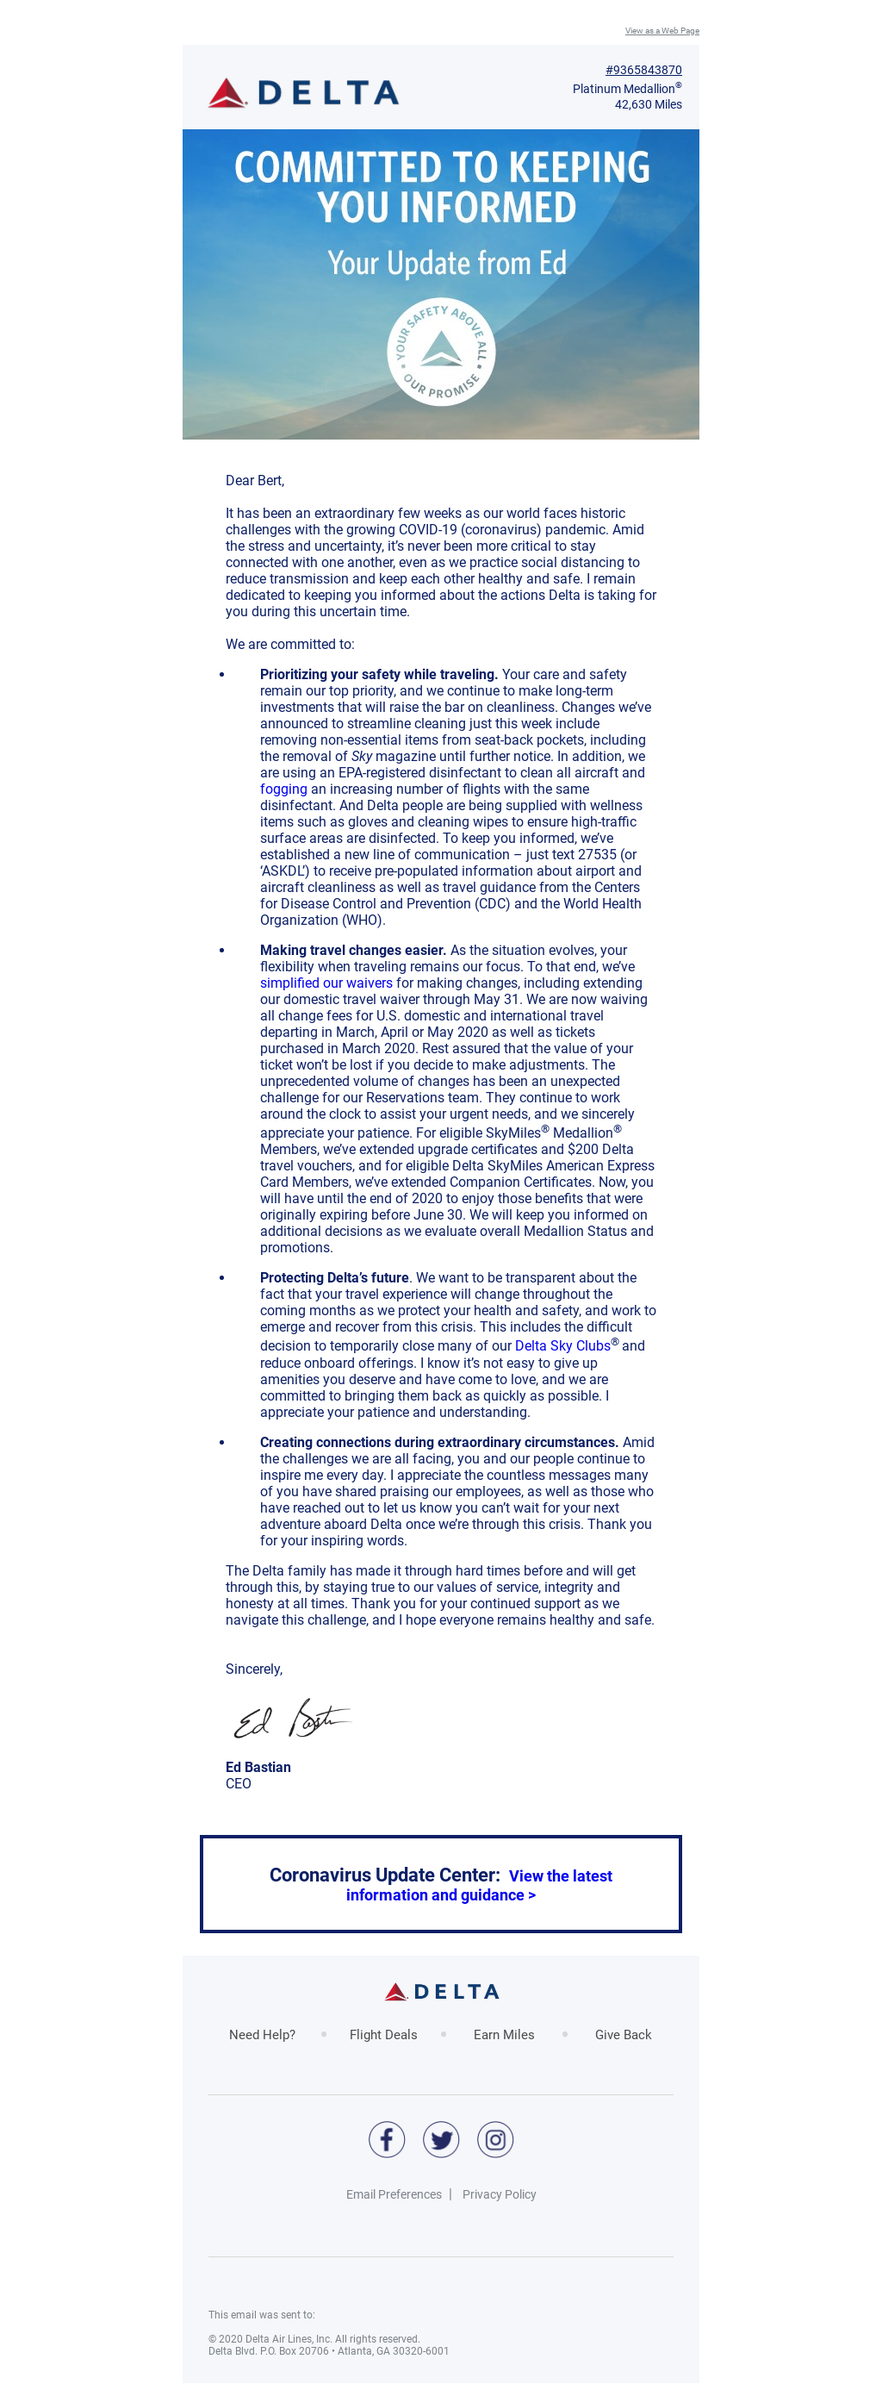
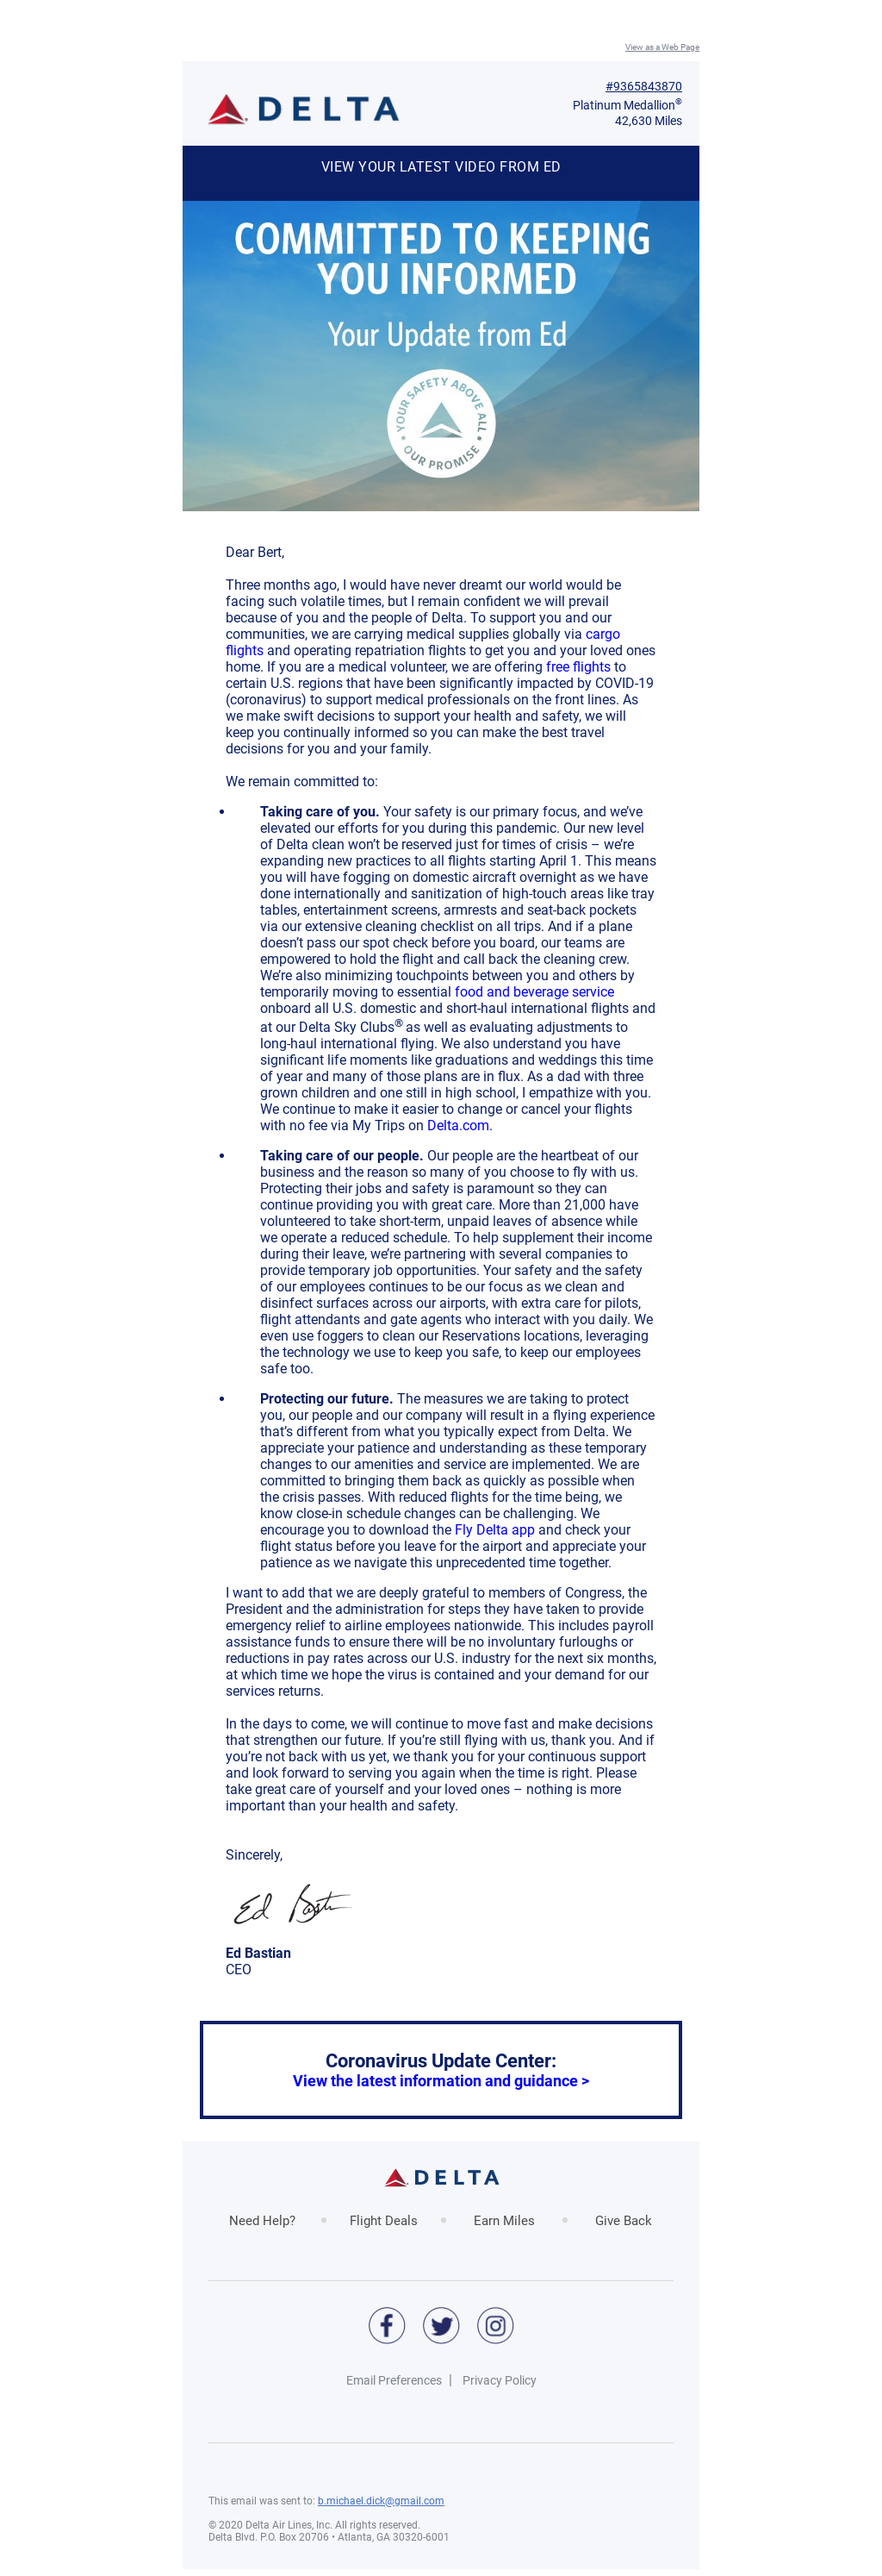
Adding three files for new post on 2020-03-29-OurCommitmentRemainsYourUpdatefromEdBastian

Changed region(s): [[0.1875, 0.0, 0.8125, 0.9304], [0.25, 0.9614, 0.5, 0.9924]]

diff --git a/_posts/2020-03-29-OurCommitmentRemainsYourUpdatefromEdBastian.md b/_posts/2020-03-29-OurCommitmentRemainsYourUpdatefromEdBastian.md
@@ -1,0 +1,147 @@
+---
+title:  "Our Commitment Remains: Your Update from Ed Bastian"
+metadate: "hide"
+date: 2020-03-29 19:54:40
+categories: [  ]
+image: "/assets/images/posts/OurCommitmentRemainsYourUpdatefromEdBastian_full.png"
+thumbnail: "/assets/images/posts/OurCommitmentRemainsYourUpdatefromEdBastian.png"
+---
+  View as a Web Page
+
+
+
+
+
+#9365843870
+
+ | Platinum Medallion®
+
+ |  42,630 Miles
+
+
+VIEW YOUR LATEST VIDEO FROM ED
+
+
+
+
+
+Dear Bert,
+
+Three months ago, I would have never dreamt our world would be facing such
+volatile times, but I remain confident we will prevail because of you and
+the people of Delta. To support you and our communities, we are carrying
+medical supplies globally via cargo flights
+
+and operating repatriation flights to get you and your loved ones home. If
+you are a medical volunteer, we are offering free flights
+
+to certain U.S. regions that have been significantly impacted by COVID-19
+(coronavirus) to support medical professionals on the front lines. As we
+make swift decisions to support your health and safety, we will keep you
+continually informed so you can make the best travel decisions for you and
+your family.
+
+We remain committed to:
+
+   - *Taking care of you. *Your safety is our primary focus, and we’ve
+   elevated our efforts for you during this pandemic. Our new level of Delta
+   clean won’t be reserved just for times of crisis – we’re expanding new
+   practices to all flights starting April 1. This means you will have fogging
+   on domestic aircraft overnight as we have done internationally and
+   sanitization of high-touch areas like tray tables, entertainment screens,
+   armrests and seat-back pockets via our extensive cleaning checklist on all
+   trips. And if a plane doesn’t pass our spot check before you board, our
+   teams are empowered to hold the flight and call back the cleaning crew.
+   We’re also minimizing touchpoints between you and others by temporarily
+   moving to essential food and beverage service
+   
+   onboard all U.S. domestic and short-haul international flights and at our
+   Delta Sky Clubs® as well as evaluating adjustments to long-haul
+   international flying. We also understand you have significant life moments
+   like graduations and weddings this time of year and many of those plans are
+   in flux. As a dad with three grown children and one still in high school, I
+   empathize with you. We continue to make it easier to change or cancel your
+   flights with no fee via My Trips on Delta.com
+   
+   .
+
+
+   - *Taking care of our people. *Our people are the heartbeat of our
+   business and the reason so many of you choose to fly with us. Protecting
+   their jobs and safety is paramount so they can continue providing you with
+   great care. More than 21,000 have volunteered to take short-term, unpaid
+   leaves of absence while we operate a reduced schedule. To help supplement
+   their income during their leave, we’re partnering with several companies to
+   provide temporary job opportunities. Your safety and the safety of our
+   employees continues to be our focus as we clean and disinfect surfaces
+   across our airports, with extra care for pilots, flight attendants and gate
+   agents who interact with you daily. We even use foggers to clean our
+   Reservations locations, leveraging the technology we use to keep you safe,
+   to keep our employees safe too.
+
+
+   - *Protecting our future.* The measures we are taking to protect you,
+   our people and our company will result in a flying experience that’s
+   different from what you typically expect from Delta. We appreciate your
+   patience and understanding as these temporary changes to our amenities and
+   service are implemented. We are committed to bringing them back as quickly
+   as possible when the crisis passes. With reduced flights for the time
+   being, we know close-in schedule changes can be challenging. We encourage
+   you to download the Fly Delta app
+   
+   and check your flight status before you leave for the airport and
+   appreciate your patience as we navigate this unprecedented time together.
+
+I want to add that we are deeply grateful to members of Congress, the
+President and the administration for steps they have taken to provide
+emergency relief to airline employees nationwide. This includes payroll
+assistance funds to ensure there will be no involuntary furloughs or
+reductions in pay rates across our U.S. industry for the next six months,
+at which time we hope the virus is contained and your demand for our
+services returns.
+
+In the days to come, we will continue to move fast and make decisions that
+strengthen our future. If you’re still flying with us, thank you. And if
+you’re not back with us yet, we thank you for your continuous support and
+look forward to serving you again when the time is right. Please take great
+care of yourself and your loved ones – nothing is more important than your
+health and safety.
+
+
+Sincerely,
+
+
+
+*Ed Bastian*
+CEO
+
+*Coronavirus Update Center: View the latest information and guidance >
+*
+
+Need Help?
+
+•
+Flight Deals
+
+•
+Earn Miles
+
+•
+Give Back
+
+
+
+
+
+
+
+Email Preferences
+
+ |
+Privacy Policy
+
+This email was sent to: info@messagefromtheceo.com
+
+© 2020 Delta Air Lines, Inc. All rights reserved.
+Delta Blvd. P.O. Box 20706 • Atlanta, GA 30320-6001
+
